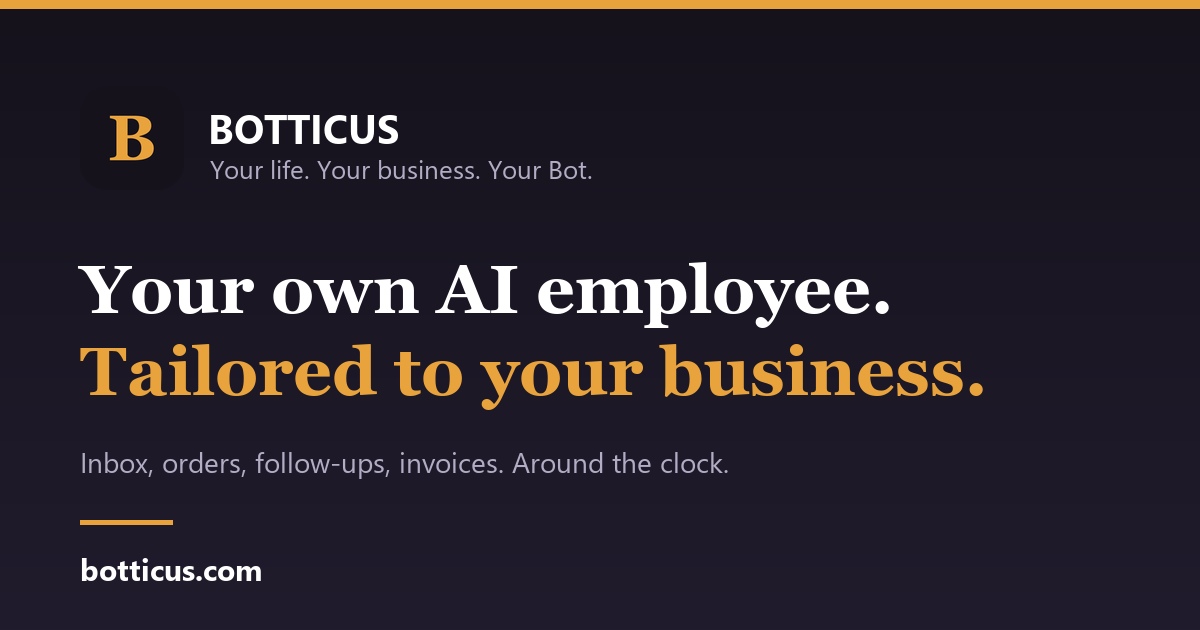
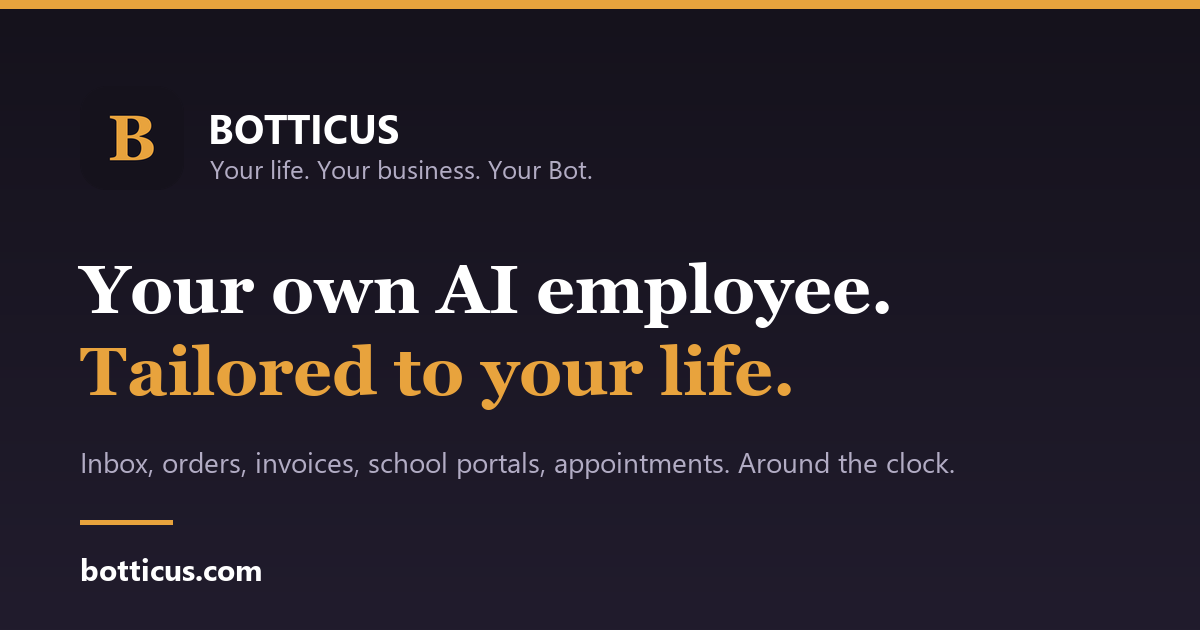
Whole-life positioning everywhere: title, meta, share card, eyebrow, pillar, footer, structured data; website hosting vs Bot server clarified

Changed region(s): [[0.555, 0.5429, 0.8325, 0.6333], [0.2158, 0.7238, 0.8017, 0.754]]

diff --git a/index.html b/index.html
@@ -3,8 +3,8 @@
 <head>
   <meta charset="UTF-8">
   <meta name="viewport" content="width=device-width, initial-scale=1.0">
-  <title>Botticus | Your own AI chief of staff, built for your business</title>
-  <meta name="description" content="Botticus builds you a tailored AI agent that runs your business around the clock: inbox, orders, follow-ups, reports, inventory, alerts. You message it like a person. It does the work. Your data stays in your own accounts.">
+  <title>Botticus | Your own AI chief of staff, for your business and your home</title>
+  <meta name="description" content="Botticus builds you a tailored AI agent that runs your business and your household around the clock: inbox, orders, follow-ups, reports, school portals, appointments, alerts. You message it like a person. It does the work. Your data stays in your own accounts.">
   <link rel="canonical" href="https://botticus.com/">
   <link rel="icon" href="/favicon.ico" sizes="32x32">
   <link rel="icon" type="image/svg+xml" href="img/favicon.svg">
@@ -17,24 +17,24 @@
   <link href="https://fonts.googleapis.com/css2?family=Inter:wght@400;600;700;800&family=Fraunces:opsz,wght@9..144,600;9..144,700&display=swap" rel="stylesheet">
   <link rel="stylesheet" href="css/style.css?v=10">
   <meta property="og:title" content="Botticus | Your own AI chief of staff">
-  <meta property="og:description" content="A tailored AI agent that runs your business around the clock. You message it. It does the work. Your data stays yours.">
+  <meta property="og:description" content="A tailored AI agent that runs your business and your home around the clock. You message it. It does the work. Your data stays yours.">
   <meta property="og:type" content="website">
   <meta property="og:url" content="https://botticus.com/">
   <meta property="og:image" content="https://botticus.com/img/og-card.png">
   <meta property="og:image:width" content="1200">
   <meta property="og:image:height" content="630">
-  <meta property="og:image:alt" content="Botticus. Your own AI employee, tailored to your business.">
+  <meta property="og:image:alt" content="Botticus. Your own AI employee, tailored to your business and your life.">
   <meta property="og:site_name" content="Botticus">
   <meta name="twitter:card" content="summary_large_image">
   <meta name="twitter:title" content="Botticus | Your own AI chief of staff">
-  <meta name="twitter:description" content="A tailored AI agent that runs your business around the clock. You message it. It does the work. Your data stays yours.">
+  <meta name="twitter:description" content="A tailored AI agent that runs your business and your home around the clock. You message it. It does the work. Your data stays yours.">
   <meta name="twitter:image" content="https://botticus.com/img/og-card.png">
   <script type="application/ld+json">
   {
     "@context": "https://schema.org",
     "@type": "ProfessionalService",
     "name": "Botticus",
-    "description": "Tailored AI agents and automation for small business owners. Setup plus a monthly care plan.",
+    "description": "Tailored AI agents for business owners and their families: one Bot that runs the business and the household. Setup plus a monthly care plan.",
     "url": "https://botticus.com/",
     "telephone": "+1-614-855-9504",
     "address": { "@type": "PostalAddress", "addressLocality": "Columbus", "addressRegion": "OH", "addressCountry": "US" },
@@ -65,7 +65,7 @@
 <section class="hero">
   <div class="container">
     <div>
-      <span class="eyebrow">Tailored AI agents for small business owners</span>
+      <span class="eyebrow">Tailored AI agents for business owners and their families</span>
       <h1>Message your business. <em>Watch it get done.</em></h1>
       <p class="lead">Botticus sets you up with your own Bot, trained on how <strong>your</strong> business actually runs. You text it like you'd text your best employee. It builds the order, sends the email, reconciles the report, chases the invoice, and tells you when something needs your eyes. Every hour of every day.</p>
       <p class="hero-note"><strong>Built for your business. Runs your whole day.</strong> The same Bot that sends Monday's order books the bulk pickup and moves the dentist appointment.</p>
@@ -123,7 +123,7 @@
       <div class="pillar">
         <div class="num">01</div>
         <h3>Tailored to you</h3>
-        <p>Your Bot gets a name, a personality, and a rulebook written from how you actually work. Mine is called Albert. Yours might be Pip, Marge, or Sarge. It learns your business, not "a" business.</p>
+        <p>Your Bot gets a name, a personality, and a rulebook written from how you actually work. Mine is called Albert. Yours might be Pip, Marge, or Sarge. It learns your business and your household, not "a" business.</p>
       </div>
       <div class="pillar">
         <div class="num">02</div>
@@ -538,7 +538,7 @@
   <div class="container">
     <div>
       <h4>Botticus</h4>
-      <p>Tailored AI agents for small business owners. Built in Columbus, Ohio by someone who runs his own business on one.</p>
+      <p>Tailored AI agents for business owners and their families. Built in Columbus, Ohio by someone who runs his own business, and his own house, on one.</p>
     </div>
     <div>
       <h4>Site</h4>

diff --git a/websites.html b/websites.html
@@ -100,7 +100,7 @@
           <li>The free demo runs on email. Changes go back and forth by reply</li>
           <li>Messaging a Bot directly is the paid product: become a client and you get your own, on Telegram, answering in seconds</li>
           <li>No online store, logins, or card payments: we will point you to the right tool for that</li>
-          <li>Hosting is billed to you by the host, not marked up by us</li>
+          <li>Website hosting is billed to you by the host, not marked up by us. (A Bot is different: its server is included in the Bot's care plan.)</li>
           <li>No lock-in, no proprietary builder, no monthly ransom</li>
           <li>Pricing by email: <a href="index.html#quote">ask for a quote</a> and it arrives within one business day</li>
         </ul>

diff --git a/privacy.html b/privacy.html
@@ -68,7 +68,7 @@
   <div class="container">
     <div>
       <h4>Botticus</h4>
-      <p>Tailored AI agents for small business owners. Built in Columbus, Ohio.</p>
+      <p>Tailored AI agents for business owners and their families. Built in Columbus, Ohio.</p>
     </div>
     <div>
       <h4>Site</h4>

diff --git a/tools/make_botticus_images.py b/tools/make_botticus_images.py
@@ -67,10 +67,10 @@ def og_card():
 
     headline = font("georgiab.ttf", 68)
     d.text((80, 250), "Your own AI employee.", font=headline, fill=WHITE)
-    d.text((80, 332), "Tailored to your business.", font=headline, fill=GOLD)
+    d.text((80, 332), "Tailored to your life.", font=headline, fill=GOLD)
 
     sub = font("segoeui.ttf", 28)
-    d.text((80, 442), "Inbox, orders, follow-ups, invoices. Around the clock.", font=sub, fill=MUTED)
+    d.text((80, 442), "Inbox, orders, invoices, school portals, appointments. Around the clock.", font=sub, fill=MUTED)
 
     d.rectangle([80, 520, 80 + 92, 524], fill=GOLD)
     d.text((80, 548), "botticus.com", font=font("segoeuib.ttf", 30), fill=WHITE)
